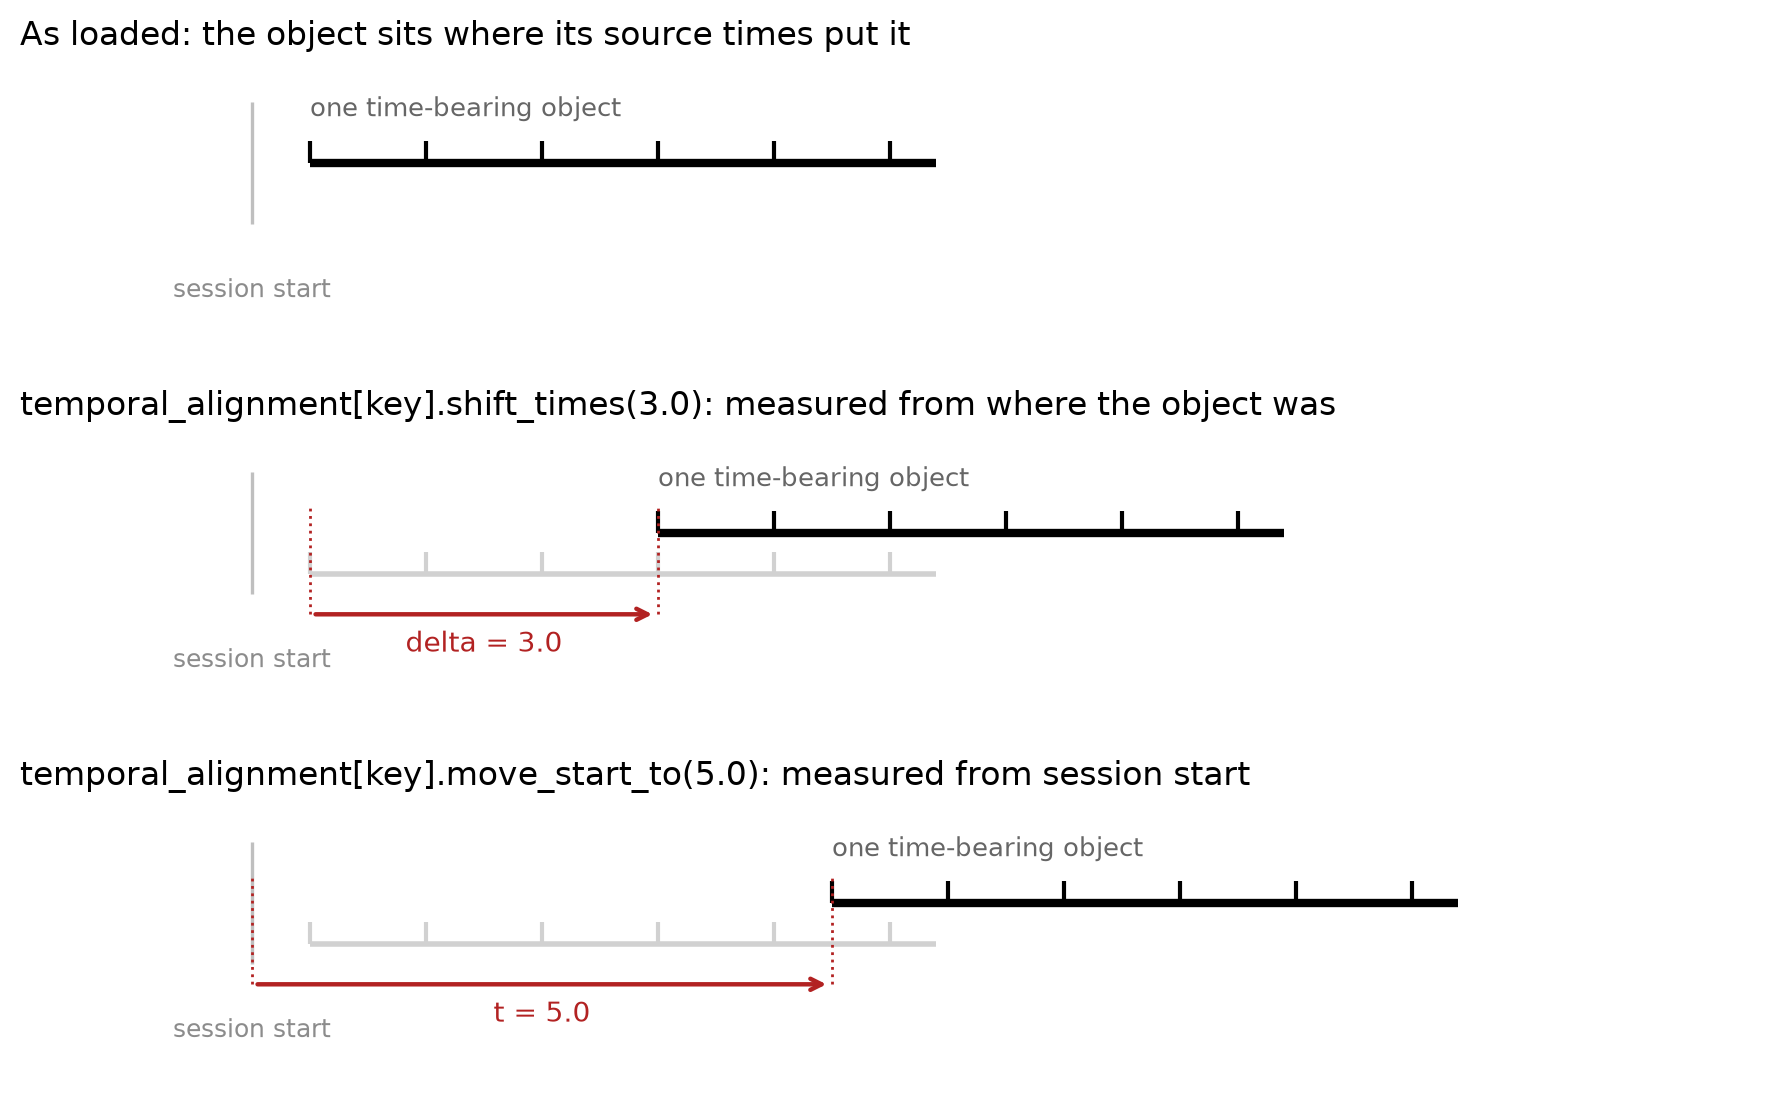
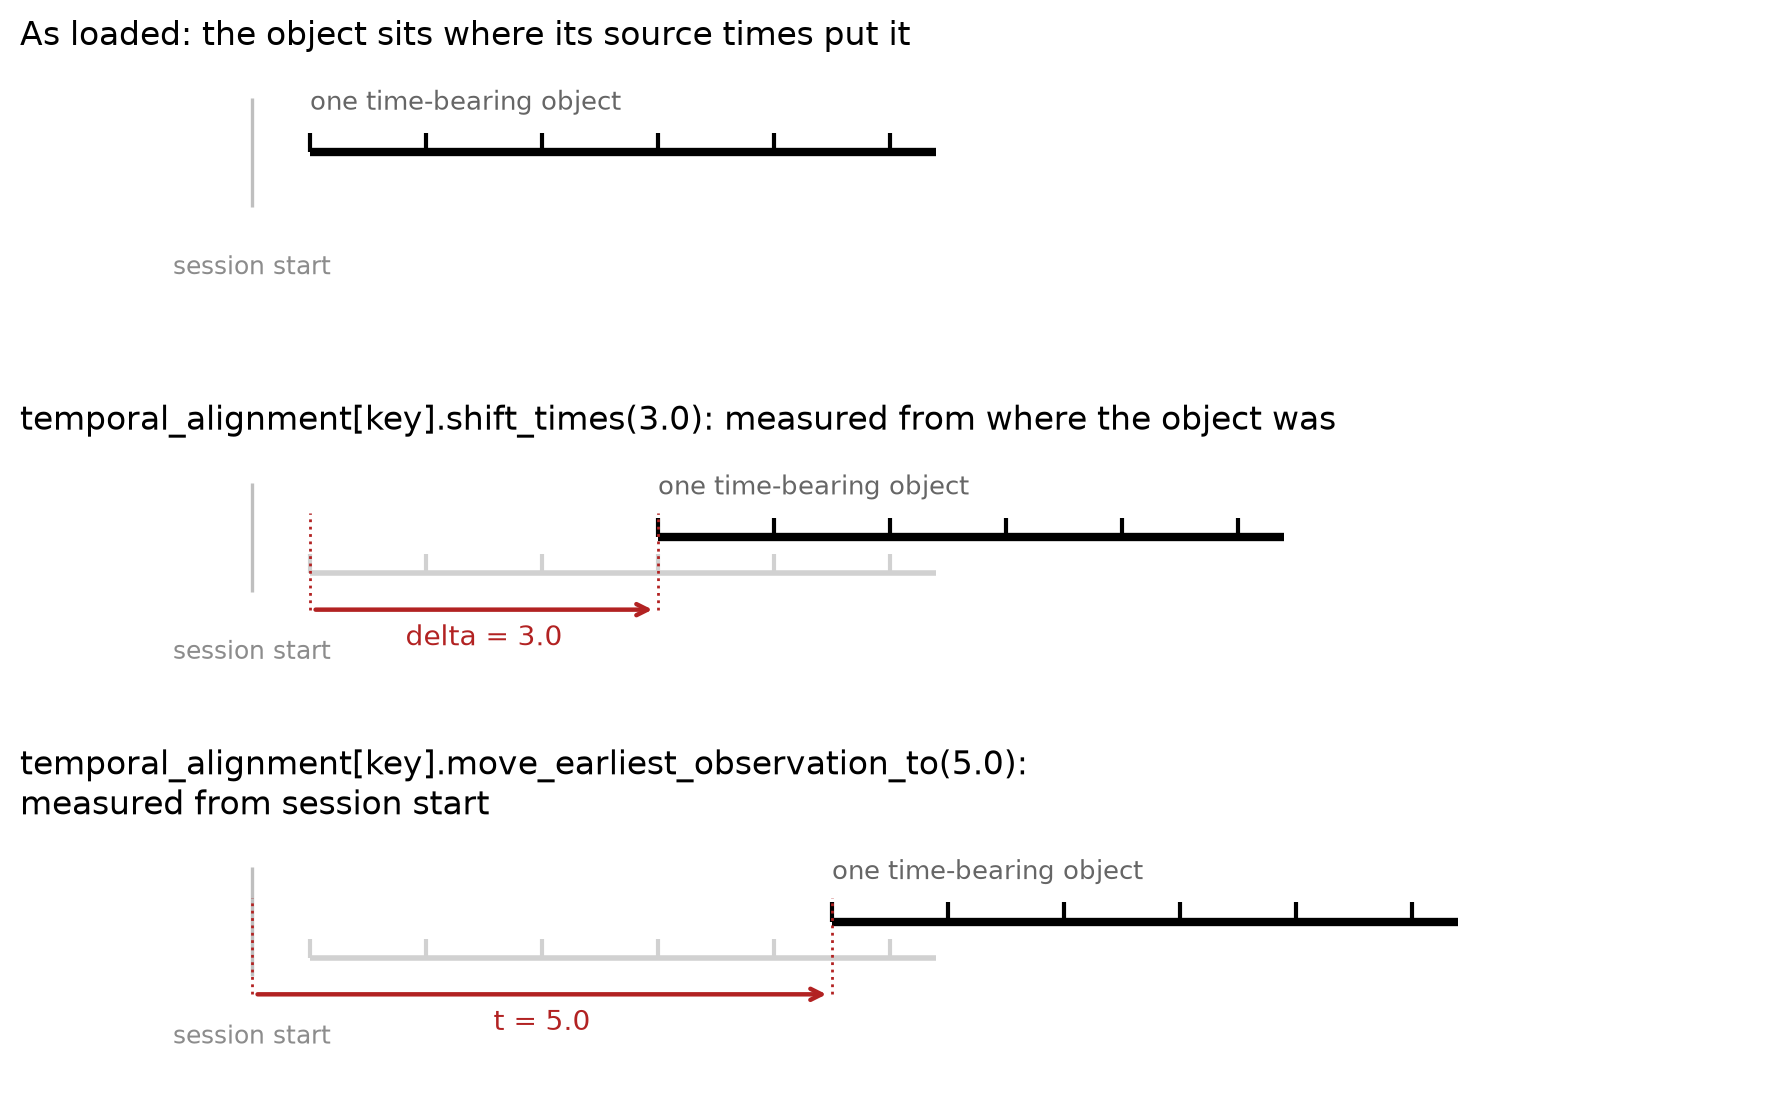
Rename earliest-observation placement in the alignment guides

diff --git a/docs/_static/images/generate_time_alignment_figures.py b/docs/_static/images/generate_time_alignment_figures.py
@@ -10,9 +10,9 @@ Produces six figures:
 - ``time_alignment_concatenate.png``     - gross alignment: separate trial files tiled onto one session clock.
 - ``time_alignment_interpolation.png``   - fine alignment: sample timestamps remapped onto the reference clock via shared pulses.
 - ``time_alignment_coarse.png``          - one time-bearing object moved by ``shift_times`` and by
-  ``move_start_to``.
+  ``move_earliest_observation_to``.
 - ``time_alignment_moves_together.png`` - an interface's time-bearing objects moved together by ``shift_times``
-  and by ``move_start_to``, with the gaps between them preserved.
+  and by ``move_earliest_observation_to``, with the gaps between them preserved.
 - ``time_alignment_remap_together.png`` - one pulse mapping applied to every video file in an interface.
 """
 
@@ -279,10 +279,10 @@ def build_interpolation():
 
 
 def build_coarse():
-    """One time-bearing object moved by ``shift_times`` and by ``move_start_to``.
+    """One time-bearing object moved by ``shift_times`` and by ``move_earliest_observation_to``.
 
     The one-object counterpart of ``build_moves_together``. Both calls keep the spacing between samples; they differ in
-    what the number is measured from, ``shift_times`` from where the object was and ``move_start_to`` from session
+    what the number is measured from, ``shift_times`` from where the object was and ``move_earliest_observation_to`` from session
     start. The moved panels show the as-loaded object faintly below the moved one.
     """
     loaded_ticks = np.arange(0.5, 6.5, 1.0)
@@ -321,7 +321,7 @@ def build_coarse():
     panel(
         axes[2],
         shift=5.0 - loaded_ticks[0],
-        title="temporal_alignment[key].move_start_to(5.0): measured from session start",
+        title="temporal_alignment[key].move_earliest_observation_to(5.0):\nmeasured from session start",
         arrow_from=0.0,
         arrow_to=5.0,
         arrow_label="t = 5.0",
@@ -331,11 +331,11 @@ def build_coarse():
 
 
 def build_moves_together():
-    """An interface's time-bearing objects moved together by ``shift_times`` and by ``move_start_to``.
+    """An interface's time-bearing objects moved together by ``shift_times`` and by ``move_earliest_observation_to``.
 
     Both calls move every object by one amount and keep the gaps between them. They differ in what the number is
-    measured from: ``shift_times`` from where the objects were, ``move_start_to`` from session start to the earliest
-    object start. The moved panels show the as-loaded objects faintly behind the moved ones.
+    measured from: ``shift_times`` from where the objects were, ``move_earliest_observation_to`` from session start
+    to the earliest observation. The moved panels show the as-loaded objects faintly behind the moved ones.
     """
     loaded_starts = np.array([0.5, 1.5, 3.0])  # three objects at fixed internal gaps
 
@@ -389,7 +389,7 @@ def build_moves_together():
     panel(
         axes[2],
         shift=5.0 - loaded_starts[0],
-        title="temporal_alignment.move_start_to(5.0): measured from session start to the earliest start",
+        title="temporal_alignment.move_earliest_observation_to(5.0):\nmeasured from session start to the earliest observation",
         arrow_from=0.0,
         arrow_to=5.0,
         arrow_label="t = 5.0",

diff --git a/docs/user_guide/temporal_alignment.rst b/docs/user_guide/temporal_alignment.rst
@@ -84,19 +84,19 @@ There are two operations for it, and which one you reach for depends on what you
 
 * ``shift_times(delta)``, when you know how far the object is off. It moves the object by ``delta`` seconds from
   wherever it sits now.
-* ``move_start_to(t)``, when you know where the object should begin. It moves the object so that its start sits at
-  ``t`` seconds after ``session_start_time``.
+* ``move_earliest_observation_to(t)``, when you know when the object's earliest observation occurred. It moves the
+  object so that its earliest frame, sample or event sits at ``t`` seconds after ``session_start_time``.
 
 Both are rigid moves: the spacing between samples, the gaps between events and all durations are preserved, and only
 the object's position on the session clock changes. They differ when repeated: ``shift_times`` is relative, so repeated
-calls add up, while ``move_start_to`` is absolute, so repeating it changes nothing.
+calls add up, while ``move_earliest_observation_to`` is absolute, so repeating it changes nothing.
 
 .. image:: ../_static/images/time_alignment_coarse.png
    :width: 600px
    :align: center
    :alt: Three panels of one time-bearing object. As loaded; after shift_times(3.0), the object 3.0 seconds from
-         where it was; after move_start_to(5.0), its start at 5.0 seconds from session start. In both moved panels
-         the spacing between its samples is unchanged.
+         where it was; after move_earliest_observation_to(5.0), its earliest observation at 5.0 seconds from session start.
+         In both moved panels the spacing between its samples is unchanged.
 
 The canonical case for ``shift_times`` is a secondary system that sends a single pulse to the primary system as it
 starts: that pulse tells you the offset, and one call moves the whole stream onto the shared clock:
@@ -105,15 +105,16 @@ starts: that pulse tells you the offset, and one call moves the whole stream ont
 
     imaging_interface.temporal_alignment["two_photon_series"].shift_times(3.0)   # every sample now sits 3.0 seconds later
 
-When what you know is where the stream began rather than how far it is off, for instance that imaging started 4.2
-seconds into the session, give that position to ``move_start_to``:
+When you know when the earliest observation occurred, for instance that the first imaging sample was acquired 4.2
+seconds into the session, give that position to ``move_earliest_observation_to``:
 
 .. code-block:: python
 
-    imaging_interface.temporal_alignment["two_photon_series"].move_start_to(4.2)   # the first sample now sits at 4.2 seconds
+    imaging_interface.temporal_alignment["two_photon_series"].move_earliest_observation_to(4.2)   # the first sample now sits at 4.2 seconds
 
-A series starts at its first sample, and an events table starts at its earliest event. A later ``shift_times`` moves
-the object from that position.
+The reference is the earliest timestamp, even when observations are stored out of chronological order. It is an
+actual observation, not the origin of the recording clock. The call preserves observation order and associations
+with sample values or event labels. A later ``shift_times`` moves the object from that position.
 
 Fine alignment
 ~~~~~~~~~~~~~~
@@ -251,13 +252,13 @@ qualifiers) allow access to the specific time-bearing objects:
     video_interface.temporal_alignment["trial_01"].remap_times(local_sync_times=pulses_local, reference_sync_times=pulses_reference)
 
 A session recorded as separate trial files may have each file's clock starting near zero. When you know the time each
-file began on the session clock, place each object with ``move_start_to``:
+file's first frame was acquired on the session clock, place each object with ``move_earliest_observation_to``:
 
 .. code-block:: python
 
-    video_interface.temporal_alignment["trial_01"].move_start_to(0.0)
-    video_interface.temporal_alignment["trial_02"].move_start_to(65.0)
-    video_interface.temporal_alignment["trial_03"].move_start_to(130.0)
+    video_interface.temporal_alignment["trial_01"].move_earliest_observation_to(0.0)
+    video_interface.temporal_alignment["trial_02"].move_earliest_observation_to(65.0)
+    video_interface.temporal_alignment["trial_03"].move_earliest_observation_to(130.0)
 
 Each call places one file and leaves its siblings where they are.
 
@@ -269,7 +270,7 @@ A correction can also belong to one object. If a synchronization check finds one
     video_interface.temporal_alignment["trial_02"].shift_times(-0.040)
 
 As a convenience, we allow some of the methods to work on all the items of the ``temporal_alignment``. Calling
-``shift_times``, ``move_start_to`` and ``remap_times`` without a key will operate on all the time-bearing objects.
+``shift_times``, ``move_earliest_observation_to`` and ``remap_times`` without a key will operate on all the time-bearing objects.
 
 ``temporal_alignment.shift_times(delta)`` moves every object of the interface by ``delta``, so their relationships stay intact:
 they slide together by the same amount. Use it when their relative timing is already correct and the whole group needs
@@ -283,18 +284,19 @@ You can also move an entire interface to a known position:
 
 .. code-block:: python
 
-    video_interface.temporal_alignment.move_start_to(100.0)
+    video_interface.temporal_alignment.move_earliest_observation_to(100.0)
 
-The interface uses the earliest start among its objects and moves every object by the same amount. The three trials
+The interface uses the earliest observation across its objects and moves every object by the same amount. The three trials
 above now start at 100, 164.96 and 230 seconds, preserving the correction to the second trial. Their relative timing
 stays intact.
-Calling ``move_start_to(100.0)`` separately on each trial would instead put all three starts at 100 seconds.
+Calling ``move_earliest_observation_to(100.0)`` separately on each trial would instead put each trial's earliest
+observation at 100 seconds.
 
 .. image:: ../_static/images/time_alignment_moves_together.png
    :width: 600px
    :align: center
    :alt: Three panels of one interface's three time-bearing objects. As loaded; after temporal_alignment.shift_times(3.0),
-         every object 3.0 seconds from where it was; after temporal_alignment.move_start_to(5.0), the earliest start at
+         every object 3.0 seconds from where it was; after temporal_alignment.move_earliest_observation_to(5.0), the earliest observation at
          5.0 seconds from session start. In both moved panels the gaps between the objects are unchanged.
 
 Calling ``temporal_alignment.remap_times`` uses one set of synchronization-pulse pairs to transform every object's
@@ -331,7 +333,7 @@ own objects as before:
     converter.temporal_alignment["Video"].keys()      # e.g. ("trial_01", "trial_02", "trial_03")
     converter.temporal_alignment["Video"]["trial_02"].shift_times(-0.040)   # one file of the video interface
 
-Called on the converter's ``temporal_alignment`` itself, ``shift_times`` and ``move_start_to`` move every interface it holds by
+Called on the converter's ``temporal_alignment`` itself, ``shift_times`` and ``move_earliest_observation_to`` move every interface it holds by
 one common amount, just as an interface moves its objects, as long as each of them exposes a ``temporal_alignment``. Calling
 ``remap_times`` there applies one map to every interface, which is right only when all of them run on one clock. Each
 interface usually has its own clock and its own correction, so most alignment is one call per interface.
@@ -375,10 +377,10 @@ A subclass of :py:class:`.NWBConverter` packages a conversion you run repeatedly
             behavior_delay = ...  # how far the behavior box starts after the recording, however you obtain it
             self.temporal_alignment["Behavior"].shift_times(behavior_delay)
 
-Inside this method you apply whatever each stream needs: ``shift_times`` for a correction, ``move_start_to`` for a
+Inside this method you apply whatever each stream needs: ``shift_times`` for a correction, ``move_earliest_observation_to`` for a
 destination, or ``remap_times`` to re-time a drifting stream against the reference, on ``self.temporal_alignment[name]`` for a
 whole interface or on ``self.temporal_alignment[name][key]`` for one of its objects.
 
 One caveat applies to both: the calls mutate the live interfaces, so a step that runs twice compounds unless it states
 a result. A ``shift_times`` shifts twice and a ``remap_times`` remaps times that were already remapped, while
-``move_start_to`` and ``set_times`` can be repeated. Build the converter fresh per conversion.
+``move_earliest_observation_to`` and ``set_times`` can be repeated. Build the converter fresh per conversion.

diff --git a/docs/developer_guide/timing_model.rst b/docs/developer_guide/timing_model.rst
@@ -1,8 +1,7 @@
 Timing Model
 ============
 
-For alignment workflows and examples, see the :doc:`../user_guide/temporal_alignment`. The converter alignment surface
-described here is not yet implemented.
+For alignment workflows and examples, see the :doc:`../user_guide/temporal_alignment`.
 
 Objects and state
 -----------------
@@ -73,10 +72,10 @@ access to its native times through a reader instead of loading them during regis
 recordings, where a timing correction should not require reading or allocating an array with one entry per sample.
 
 The separation between base times and an offset makes this possible for translations. ``shift_times`` updates the
-offset without reading timestamps. ``move_start_to`` needs the current start, so it can use a scalar start accessor
-when one is available. Otherwise finding that start may require reading timestamps, even though the placement itself
-still changes only the offset. Laziness therefore depends on what information the operation needs and what the
-interface can supply without a full array.
+offset without reading timestamps. ``move_earliest_observation_to`` needs the earliest observation, so it can use a
+scalar start accessor when that identifies the earliest observation. Otherwise finding the minimum may require
+reading timestamps, even though the placement itself still changes only the offset. Laziness therefore depends on
+what information the operation needs and what the interface can supply without a full array.
 
 Operations that need the timestamp values evaluate them at that point. ``get_times`` returns the output array, and
 ``remap_times`` evaluates the current times and stores the remapped result. They read through the native-time
@@ -99,22 +98,23 @@ times, an existing offset would be added to the supplied values. The caller woul
 predict what the file receives, even when a converter applied it elsewhere. With the selected semantics, the values
 passed to the setter are sufficient to know the result.
 
-The other operations follow the same convention. For one nonempty series, their effects can be expressed directly on
+The other operations follow the same convention. For one nonempty object, their effects can be expressed directly on
 ``T``, its current output times:
 
 .. code-block:: text
 
-    shift_times(d):      T' = T + d
-    move_start_to(t):    T' = T + (t - T[0])
-    set_times(A):        T' = A
-    remap_times(L, R):   T' = interp(T, L, R)
+    shift_times(d):                    T' = T + d
+    move_earliest_observation_to(t):    T' = T + (t - min(T))
+    set_times(A):                      T' = A
+    remap_times(L, R):                  T' = interp(T, L, R)
 
 The first two operations translate the times, so they change only the offset and preserve sample spacing and
 durations. Their difference is how the translation is determined: ``shift_times`` adds a correction, while
-``move_start_to`` computes the correction needed to reach a destination. For a series, that destination refers to
-the first sample. For an events table, it refers to the earliest onset. An object with base start ``s`` therefore
-receives ``offset = t - s`` when placed at ``t``. Repeating the same placement leaves it in place, while repeating a
-shift accumulates.
+``move_earliest_observation_to`` computes the correction needed to place the earliest actual observation at a
+destination. This is the minimum timestamp regardless of storage order, not the recording clock's origin. An
+object with earliest base time ``s`` therefore receives ``offset = t - s`` when placed at ``t``. Observation order
+and associations with sample values or event labels are preserved. Repeating the same placement leaves it in
+place, while repeating a shift accumulates.
 
 ``set_times`` and ``remap_times`` store their resulting output times directly as new base times and reset the offset
 to zero. Retaining the offset could satisfy the same output-time contract, but would require subtracting it from the
@@ -134,8 +134,9 @@ At the moment, the only time-bearing object that does not implement ``set_times`
 interface. Replacement would take a dictionary mapping units to timestamp arrays instead of a single array, and we
 have not identified a reasonable use case for implementing this.
 
-In the same vein, sorting does not implement object-level ``move_start_to`` because its first spike reflects neural
-activity, not the start of the recording.
+Placement for sorting is not yet implemented. Once supported, ``move_earliest_observation_to`` will place the
+earliest spike across the selected units using one common shift, preserving their relative timing. The earliest
+spike reflects neural activity, not the start of the recording.
 
 Collection operations
 ---------------------
@@ -146,10 +147,10 @@ calling ``converter.temporal_alignment["SpikeGLX"].shift_times(delta)`` shifts i
 action-potential and low-frequency bands of a Neuropixels 1.0 recording. This lets users correct the acquisition's
 timing without separately adjusting each stream.
 
-When using ``move_start_to``, the earliest timestamp across the selected objects determines one shared shift. We
-choose this behavior because the correction should preserve the timing relationships within the acquisition.
-Calling ``move_start_to`` independently on each child would instead force every stream to begin at the same time,
-erasing any existing differences between their starts.
+When using ``move_earliest_observation_to``, the earliest observation across the selected objects determines one
+shared shift. We choose this behavior because the correction should preserve the timing relationships within the acquisition.
+Calling ``move_earliest_observation_to`` independently on each child would instead place every child's earliest
+observation at the same time, erasing any existing differences between those times.
 
 ``set_times`` requires an explicit key because an object's components may need different timestamps. For example,
 the ``start_time`` and ``stop_time`` columns of a ``TimeIntervals`` table cannot generally accept the same replacement

diff --git a/docs/how_to/align_external_video.rst b/docs/how_to/align_external_video.rst
@@ -229,9 +229,9 @@ overlap raises an error. Place each file where the previous one ends:
     starting_times = np.concatenate([[0.0], np.cumsum(durations)[:-1]])
 
     for segment_key, start in zip(video_interface.temporal_alignment.keys(), starting_times):
-        video_interface.temporal_alignment[segment_key].move_start_to(start)
+        video_interface.temporal_alignment[segment_key].move_earliest_observation_to(start)
 
-``move_start_to`` moves one file so that its first frame sits at the time you give on the session clock. It reads
+``move_earliest_observation_to`` moves one file so that its first frame sits at the time you give on the session clock. It reads
 nothing inside the file. If the camera also started late, shift the interface as in the known-offset case
 and the files keep their layout. Nothing in the files records a gap between them if there was one. If the
 rig has a frame-out line, use it and take each file's times from the pulses instead, as in the trialized
@@ -300,7 +300,7 @@ A triggered camera, one file per trial
 --------------------------------------
 
 One camera again, but a pulse triggers it at the start of each trial, so the session produces one file per
-trial with real gaps between them. Each file has to be placed on its own, with ``temporal_alignment[key].move_start_to``.
+trial with real gaps between them. Each file has to be placed on its own, with ``temporal_alignment[key].move_earliest_observation_to``.
 A file left unplaced stays at its own start, usually zero, and the write raises an error when it overlaps the
 file before it: in the
 order given, each file has to begin after the previous one ends. The check is on the times, so a first file
@@ -337,13 +337,13 @@ passed twice, raises at construction.
     assert len(trial_onsets) == len(segment_keys)
 
     for segment_key, onset in zip(segment_keys, trial_onsets):
-        video_interface.temporal_alignment[segment_key].move_start_to(onset)
+        video_interface.temporal_alignment[segment_key].move_earliest_observation_to(onset)
 
 Each file is placed where its trigger fired. Within a file the frame times come from the nominal frame
 rate, so the drift caveat from the known-offset case applies again, per trial instead of once for the
 session. That is usually fine. A trial is short and a camera does not drift far in ten seconds.
 
-``move_start_to`` states where a file begins instead of how far to move it. Running the loop twice leaves the
+``move_earliest_observation_to`` states where a file begins instead of how far to move it. Running the loop twice leaves the
 files where it says instead of moving them twice. A ``shift_times`` on the interface afterwards moves every
 file together.
 
@@ -439,7 +439,7 @@ Two setups we know of have no recipe.
 
 **One file per trial and no line.** Nothing in the recording says where the trials sit. The starting times
 have to come from somewhere else, a behavioral log or the modification times of the files, and you place
-each file by hand with ``move_start_to``.
+each file by hand with ``move_earliest_observation_to``.
 
 **A camera that free-runs while only some of its frames are written to disk.** The counts no longer say
 which frames were saved, so neither the gaps nor the onsets can reconstruct the mapping. No alignment recipe
